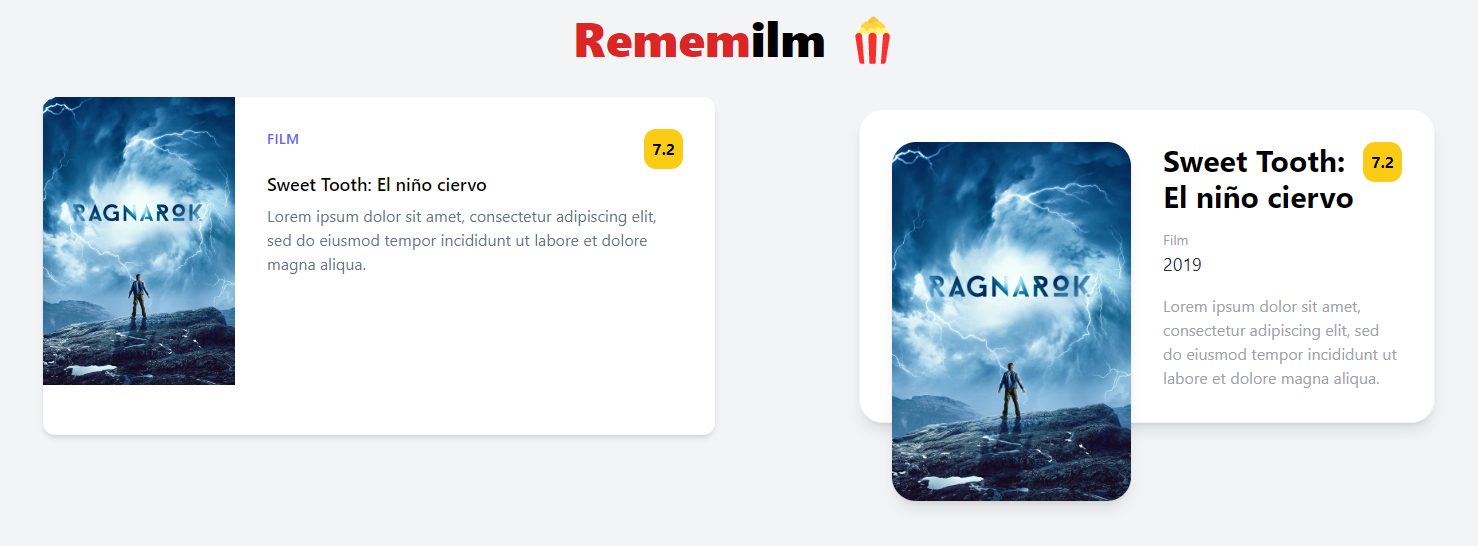
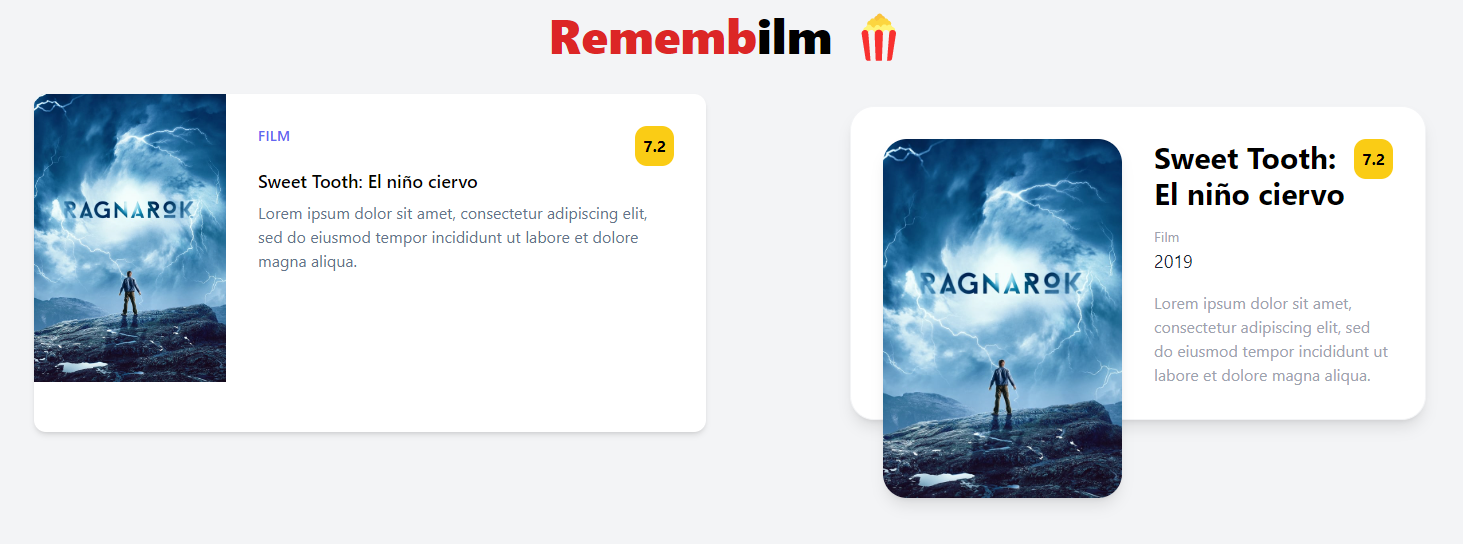
Hito-1: Fix header title

diff --git a/web/src/components/Header.jsx b/web/src/components/Header.jsx
@@ -2,7 +2,7 @@ const Header = () => {
   return (
     <header className="py-5">
       <h1 className="mx-auto text-center text-5xl font-black md:w-2/3">
-        <span className="text-red-600">Remem</span>ilm 🍿
+        <span className="text-red-600">Rememb</span>ilm 🍿
       </h1>
     </header>
   );
